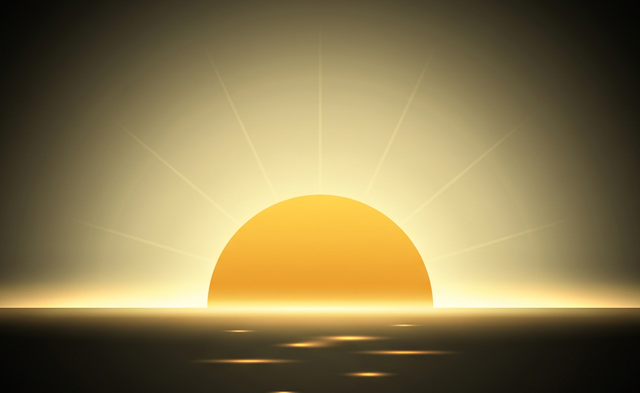
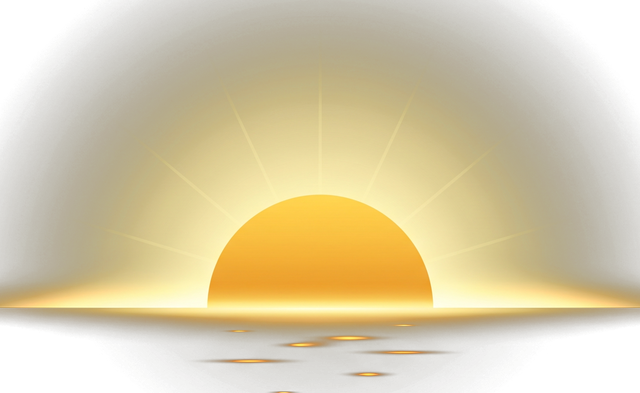
Tide suns: real transparency instead of black-bg + screen blend
- icons/sunrise.png & icons/sunset.png rebuilt as RGBA: alpha from the
  pixel value (pure black -> fully transparent, hard floor at 26), so
  the warm glow composites cleanly over the navy chart with no visible
  box or lightened rectangle.
- dropped mix-blend-mode:screen on the <image> tags (normal alpha now).
- sw.js -> v20.

diff --git a/index.html b/index.html
@@ -678,8 +678,8 @@ function renderTide(curve, hilo){
     const inWin = a => (a||[]).map(s=>new Date(s).getTime()).filter(t=>t>t0+3e6 && t<t1-3e6);
     const rise = inWin(WX.daily.sunrise)[0], set = inWin(WX.daily.sunset)[0];
     const sImg = (t, href) => {
-      const w = 136, h = w*393/640, wl = 0.80;                 // the image's own waterline sits ~80% down
-      return `<image href="${href}" x="${(X(t)-w/2).toFixed(1)}" y="${(horizonY-h*wl).toFixed(1)}" width="${w}" height="${h.toFixed(1)}" preserveAspectRatio="none" style="mix-blend-mode:screen"/>`;
+      const w = 140, h = w*393/640, wl = 0.80;                 // transparent-bg PNG; its own waterline sits ~80% down
+      return `<image href="${href}" x="${(X(t)-w/2).toFixed(1)}" y="${(horizonY-h*wl).toFixed(1)}" width="${w}" height="${h.toFixed(1)}" preserveAspectRatio="none"/>`;
     };
     if (rise!=null) suns += sImg(rise, 'icons/sunrise.png');
     if (set!=null)  suns += sImg(set,  'icons/sunset.png');

diff --git a/sw.js b/sw.js
@@ -1,4 +1,4 @@
-const CACHE = 'bayside-v19';
+const CACHE = 'bayside-v20';
 const SHELL = ['./', './index.html', './manifest.json', './icons/icon-192.png', './icons/icon-512.png', './icons/boat.png',
   './icons/sunrise.png', './icons/sunset.png', './icons/ocean.png',
   'https://unpkg.com/leaflet@1.9.4/dist/leaflet.css', 'https://unpkg.com/leaflet@1.9.4/dist/leaflet.js'];
